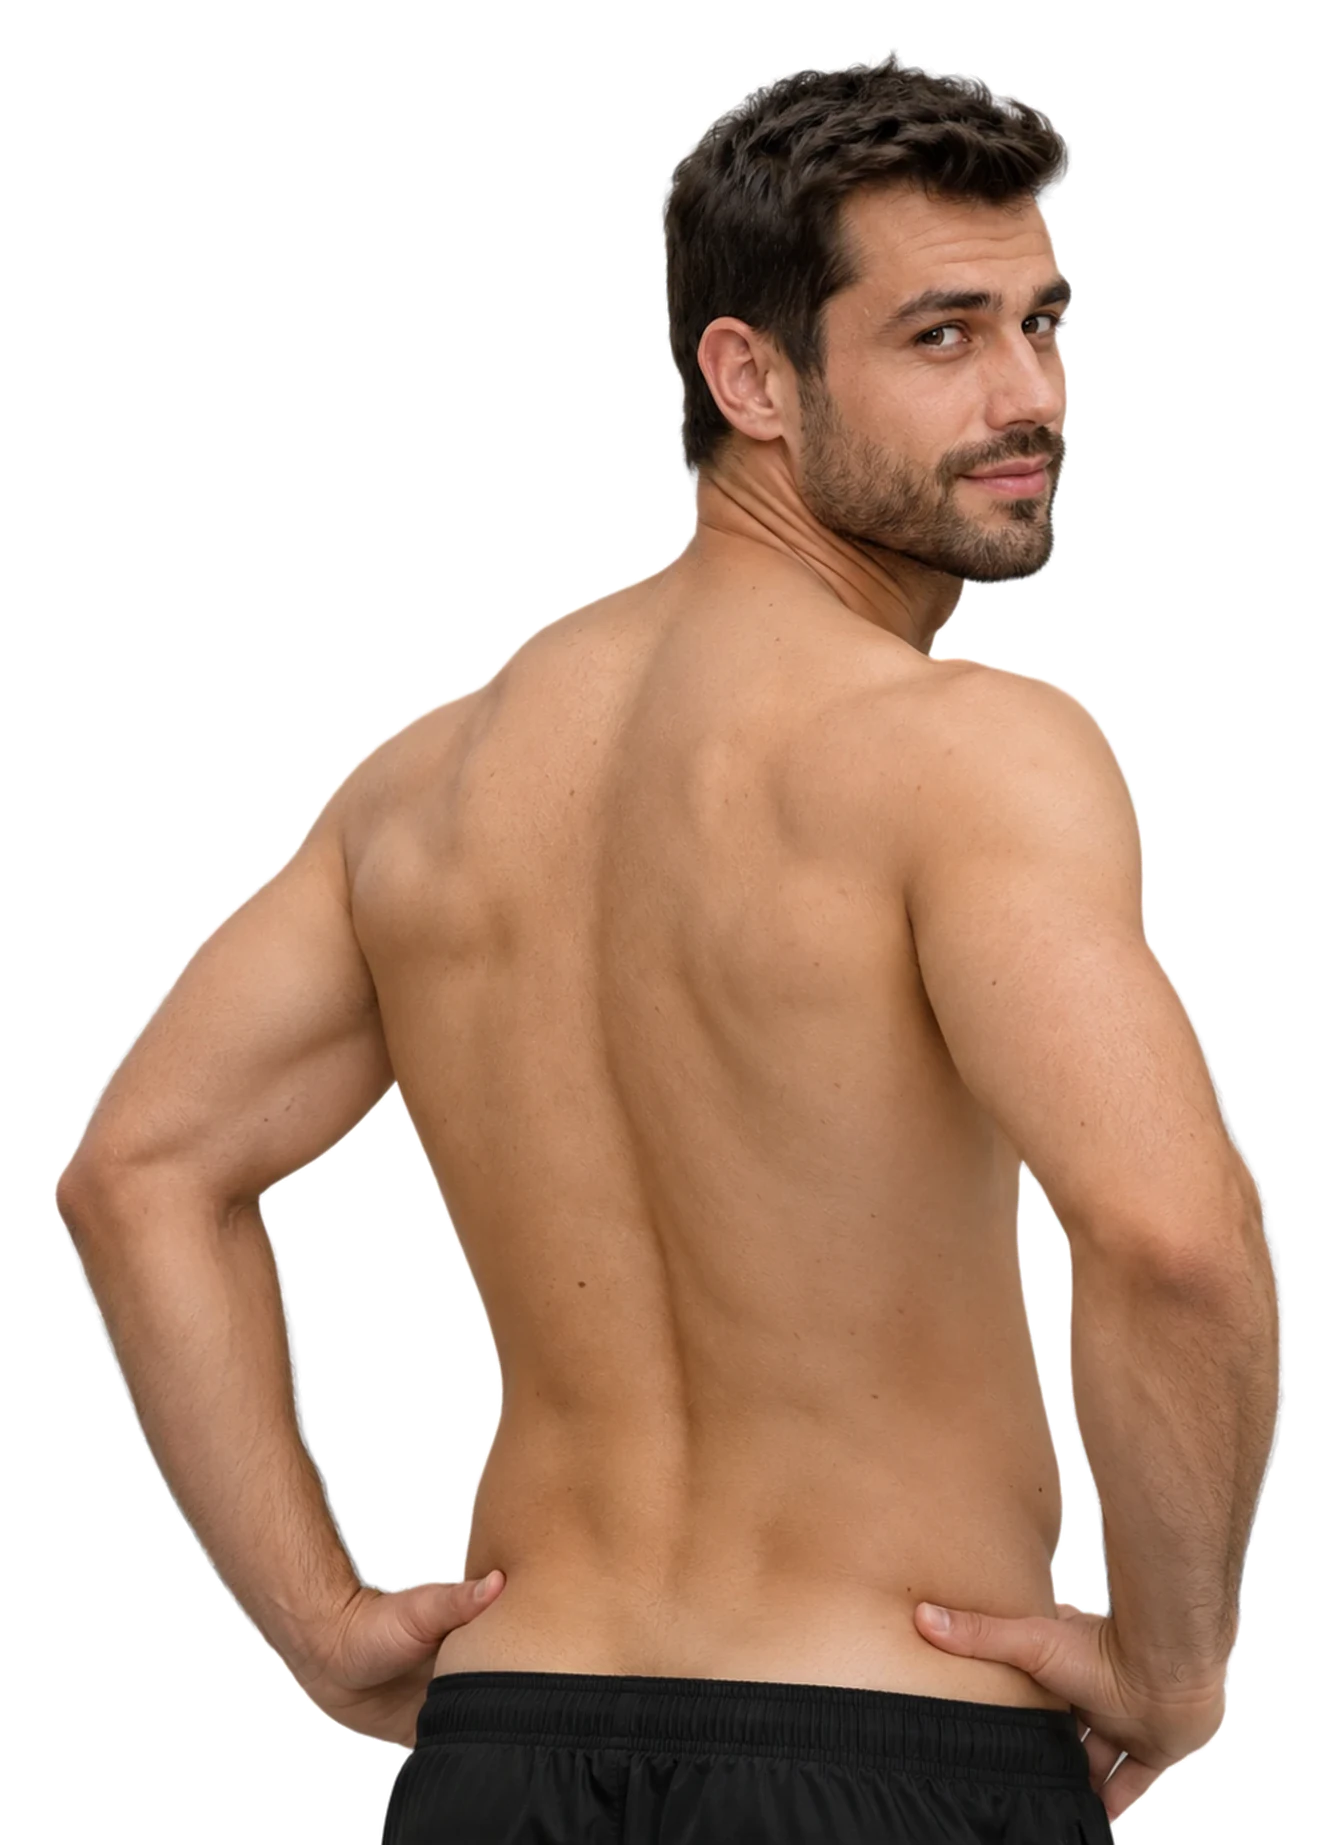
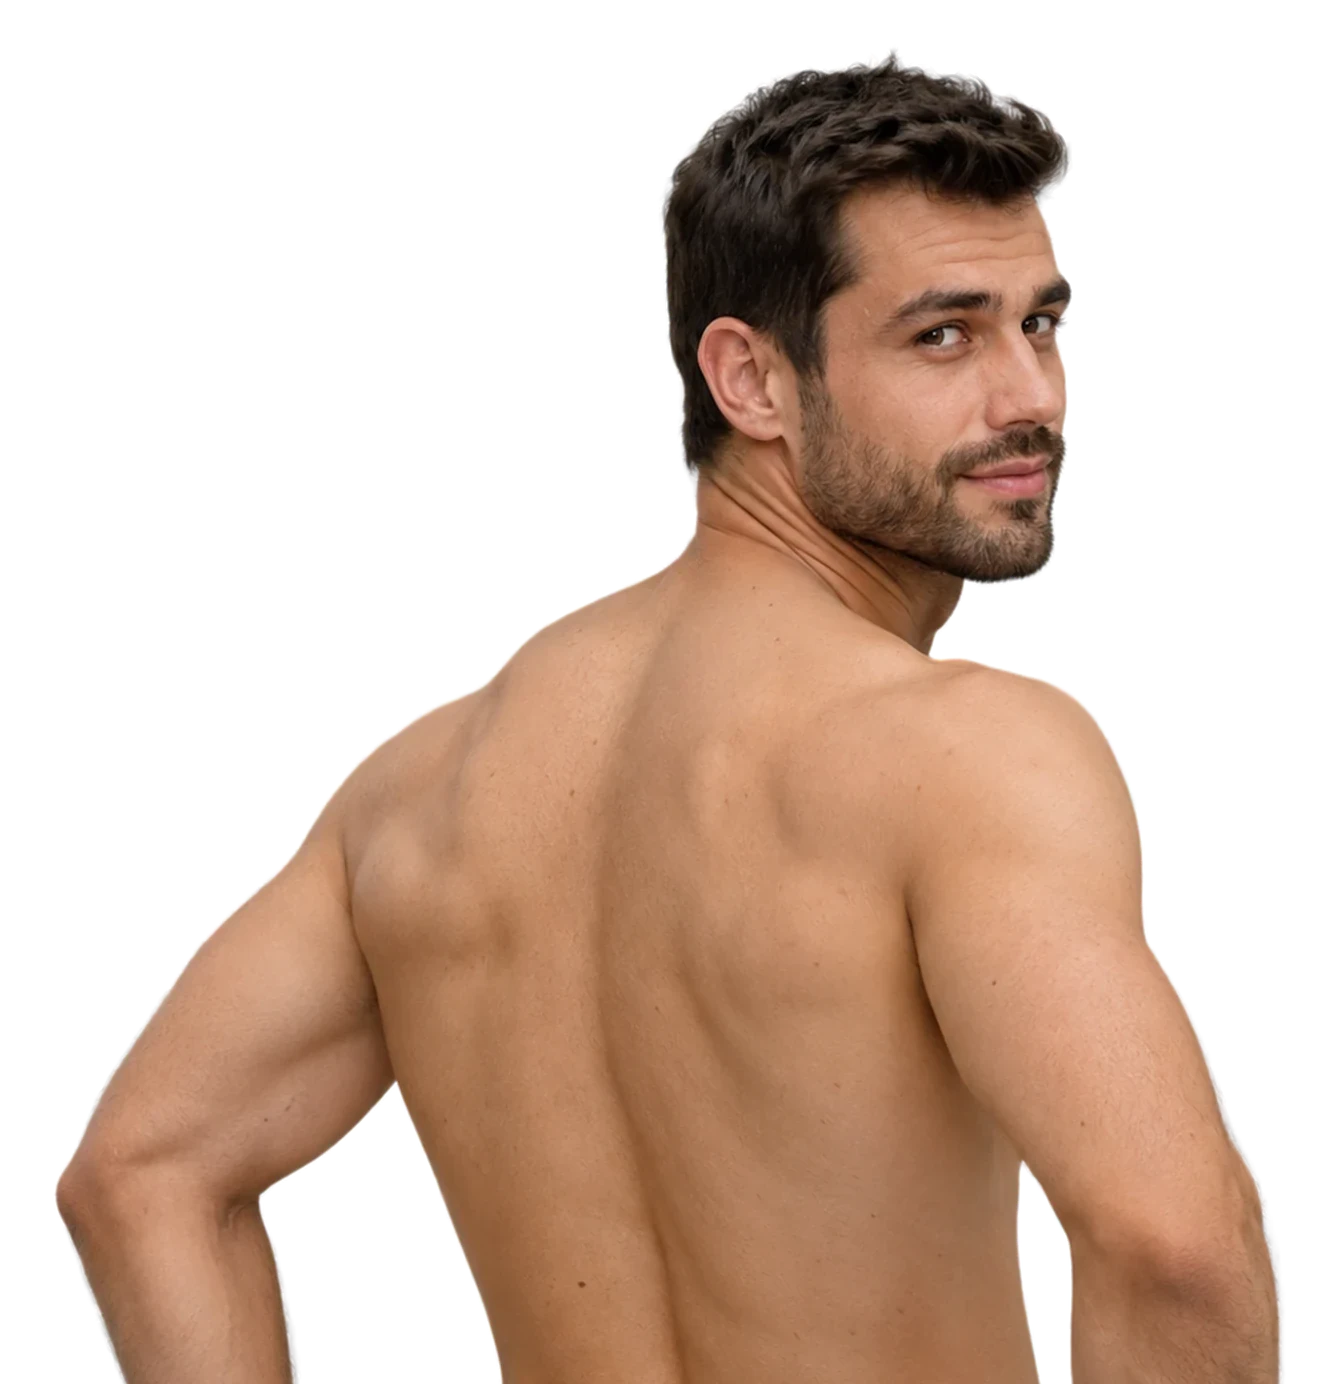
Same model scale on every page; goggles shot back on the promo page
On desktop each model is sized so the head matches the shoulder-length
portraits (head = half the column width, from a per-photo chin
position). Taller shots continue below the masthead edge instead of
shrinking; full-length bikini and legs shots (chin 0.5) stay whole.
The figure scales with its column via container query units.

The promo page uses the laser-goggles shot again. The glow behind the
model no longer causes horizontal scroll at narrow desktop widths.

Claude-Session: https://claude.ai/code/session_01SXTWUmnuzNoXH75QBRwpMy

diff --git a/src/components/direction/masthead-figure.tsx b/src/components/direction/masthead-figure.tsx
@@ -9,22 +9,30 @@ type MastheadFigureProps = {
   height: number;
   /** Центр кольца по горизонтали, % ширины фото — ставьте на голову/корпус модели. */
   focusX?: number;
+  /**
+   * Доля высоты фото до подбородка: по ней на ПК голова у всех моделей одного размера (как у
+   * портрета до плеч). Если фото выше шапки — низ уходит за кромку. 0.5 и больше — фото целиком
+   * (для кадров в полный рост, где важно показать зону).
+   */
+  chin?: number;
 };
 
 /**
  * Модель на прозрачном фоне в тёмной шапке страницы: свечение, кольцо и звёзды из логотипа.
  * Фото должно касаться только нижнего края кадра — этот срез ставится на кромку шапки.
  */
-export function MastheadFigure({ src, alt, width, height, focusX = 53 }: MastheadFigureProps) {
-  const vars = { "--figure-ratio": width / height, "--ring-x": `${focusX}%` } as CSSProperties;
+export function MastheadFigure({ src, alt, width, height, focusX = 53, chin = 0.45 }: MastheadFigureProps) {
+  const vars = { "--figure-ratio": width / height, "--ring-x": `${focusX}%`, "--chin": chin } as CSSProperties;
   return (
     <div className={direction.mastheadFigure} style={vars}>
-      <div className={direction.figureStage}>
-        <span className={direction.figureGlow} aria-hidden="true" />
-        <span className={direction.figureRing} aria-hidden="true" />
-        <CompassStar className={`${direction.figureStar} ${direction.figureStarLarge}`} />
-        <CompassStar className={`${direction.figureStar} ${direction.figureStarSmall}`} />
-        <Image src={src} alt={alt} width={width} height={height} sizes="(max-width: 760px) 86vw, 34rem" preload className={direction.figureImage} />
+      <div className={direction.figureFrame}>
+        <div className={direction.figureStage}>
+          <span className={direction.figureGlow} aria-hidden="true" />
+          <span className={direction.figureRing} aria-hidden="true" />
+          <CompassStar className={`${direction.figureStar} ${direction.figureStarLarge}`} />
+          <CompassStar className={`${direction.figureStar} ${direction.figureStarSmall}`} />
+          <Image src={src} alt={alt} width={width} height={height} sizes="(max-width: 760px) 86vw, 40rem" preload className={direction.figureImage} />
+        </div>
       </div>
     </div>
   );

diff --git a/src/app/direction.module.css b/src/app/direction.module.css
@@ -1,4 +1,6 @@
 .masthead {
+  /* Свечение за моделью шире фото — не даём ему создать горизонтальную прокрутку. */
+  overflow-x: clip;
   background: radial-gradient(ellipse at 80% 0%, #38342c, transparent 60%), var(--night);
   color: var(--white);
 }
@@ -54,6 +56,7 @@
    совпадает с нижней кромкой шапки — плечи остаются целыми, без затуханий. */
 .mastheadFigure {
   position: relative;
+  container-type: inline-size;
   display: grid;
   justify-items: center;
   align-self: end;
@@ -61,9 +64,16 @@
   clip-path: inset(-100vh -100vw 0 -100vw);
 }
 
+/* Рамка видимой части: обрезает только снизу (кольцо и звёзды могут выходить вбок). */
+.figureFrame {
+  width: 100%;
+  clip-path: inset(-100vh -100vw 0 -100vw);
+}
+
 .figureStage {
   position: relative;
   isolation: isolate;
+  margin-inline: auto;
   /* Ширина ограничена и по высоте: вертикальное фото не должно растягивать шапку. */
   width: min(94%, 34rem, calc(36rem * var(--figure-ratio, 1)));
 }
@@ -140,6 +150,18 @@
 @media (min-width: 760px) {
   .mastheadFigure {
     margin-bottom: calc(-1 * clamp(2.1rem, 5vw, 4.5rem));
+  }
+
+  /* Одинаковый масштаб моделей — как у портрета до плеч: голова (верх кадра → подбородок)
+     = половина ширины колонки. Высота фото = 50cqw / доля до подбородка; видимая часть — не выше
+     ширины колонки, остальное уходит за кромку шапки. Ширина — не больше колонки
+     (широкие позы с поднятыми руками из-за этого чуть мельче). */
+  .figureFrame {
+    max-height: 100cqw;
+  }
+
+  .figureStage {
+    width: min(100cqw, calc(50cqw / var(--chin, 0.5) * var(--figure-ratio, 1)));
   }
 }
 

diff --git a/src/content/laser-zones/pages.ts b/src/content/laser-zones/pages.ts
@@ -8,7 +8,8 @@ export const bikiniPage = buildLaserZonePage({
     cutout: true,
     width: 664,
     height: 1330,
-    focusX: 50
+    focusX: 50,
+    chin: 0.5
   },
   title: "Лазерная эпиляция бикини в Чите",
   shortName: "Бикини",
@@ -81,7 +82,8 @@ export const podmyshkiPage = buildLaserZonePage({
     cutout: true,
     width: 1548,
     height: 1730,
-    focusX: 50
+    focusX: 50,
+    chin: 0.33
   },
   title: "Лазерная эпиляция подмышек в Чите",
   shortName: "Подмышки",
@@ -140,7 +142,8 @@ export const nogiPage = buildLaserZonePage({
     cutout: true,
     width: 1821,
     height: 1144,
-    focusX: 64
+    focusX: 64,
+    chin: 0.5
   },
   title: "Лазерная эпиляция ног в Чите",
   shortName: "Ноги",
@@ -208,8 +211,9 @@ export const litsoPage = buildLaserZonePage({
     alt: "Лазерная эпиляция лица: модель с гладкой кожей лица и шеи",
     cutout: true,
     width: 1560,
-    height: 1767,
-    focusX: 50
+    height: 1414,
+    focusX: 50,
+    chin: 0.46
   },
   sections: [
     [
@@ -308,8 +312,9 @@ export const muzhskayaPage = buildLaserZonePage({
     alt: "Мужская лазерная эпиляция: модель-мужчина, вид со спины",
     cutout: true,
     width: 1335,
-    height: 1845,
-    focusX: 52
+    height: 1384,
+    focusX: 52,
+    chin: 0.33
   },
   title: "Мужская лазерная эпиляция в Чите",
   shortName: "Для мужчин",

diff --git a/src/content/directions/types.ts b/src/content/directions/types.ts
@@ -36,9 +36,20 @@ export type DirectionContent = {
   /**
    * Фото в шапке; position — точка кадрирования (CSS object-position), например "center 22%".
    * cutout — PNG/WebP с прозрачным фоном: модель без рамки на тёмной шапке со свечением;
-   * focusX — где по горизонтали центр кольца за моделью, в процентах (по умолчанию 53).
+   * focusX — где по горизонтали центр кольца за моделью, в процентах (по умолчанию 53);
+   * chin — на какой доле высоты фото подбородок (0.45 = 45% сверху): по нему на ПК
+   * выравнивается размер головы, чтобы модели на разных страницах были одного масштаба.
    */
-  image: { src: string; alt: string; position?: string; cutout?: boolean; width?: number; height?: number; focusX?: number };
+  image: {
+    src: string;
+    alt: string;
+    position?: string;
+    cutout?: boolean;
+    width?: number;
+    height?: number;
+    focusX?: number;
+    chin?: number;
+  };
   /** Картинка для превью ссылок и разметки, если в шапке модель без фона (прозрачный WebP для превью не годится). */
   shareImage?: { src: string; alt: string };
   bookingHref: string;

diff --git a/src/app/akcii/page.tsx b/src/app/akcii/page.tsx
@@ -104,11 +104,12 @@ export default async function PromoPage() {
               </div>
             </div>
             <MastheadFigure
-              src="/clinic/model-akcii-smile.webp"
-              alt="Акция на лазерную эпиляцию: улыбающаяся модель"
-              width={1225}
-              height={1795}
+              src="/clinic/model-laser-goggles-2.webp"
+              alt="Акция на лазерную эпиляцию: модель в защитных очках для лазера"
+              width={1126}
+              height={1325}
               focusX={57}
+              chin={0.36}
             />
           </div>
         </section>

diff --git a/src/content/directions/konturnaya-plastika.ts b/src/content/directions/konturnaya-plastika.ts
@@ -28,7 +28,8 @@ export const konturnayaPlastika: DirectionContent = {
     cutout: true,
     width: 1470,
     height: 1808,
-    focusX: 60
+    focusX: 60,
+    chin: 0.45
   },
   shareImage: { src: "/clinic/consultation-room.webp", alt: "Кабинет врача-косметолога клиники «Сияние»" },
   bookingHref: "/booking?booking=doctor&service=cosmetologist-consultation",

diff --git a/src/content/directions/botulinoterapiya.ts b/src/content/directions/botulinoterapiya.ts
@@ -27,7 +27,8 @@ export const botulinoterapiya: DirectionContent = {
     cutout: true,
     width: 1568,
     height: 1652,
-    focusX: 54
+    focusX: 54,
+    chin: 0.52
   },
   shareImage: { src: "/clinic/consultation-room.webp", alt: "Кабинет врача-косметолога клиники «Сияние»" },
   bookingHref: "/booking?booking=doctor&service=botulinum-wrinkles",

diff --git a/src/content/directions/dermatolog-kosmetolog.ts b/src/content/directions/dermatolog-kosmetolog.ts
@@ -24,7 +24,8 @@ export const dermatologKosmetolog: DirectionContent = {
     cutout: true,
     width: 1600,
     height: 1436,
-    focusX: 55
+    focusX: 55,
+    chin: 0.58
   },
   shareImage: { src: "/clinic/consultation-room.webp", alt: "Кабинет врача-дерматолога клиники «Сияние»" },
   bookingHref: `/booking?booking=doctor&service=${chief.slug}`,

diff --git a/src/content/directions/lechenie-gipergidroza.ts b/src/content/directions/lechenie-gipergidroza.ts
@@ -25,7 +25,8 @@ export const lechenieGipergidroza: DirectionContent = {
     cutout: true,
     width: 1553,
     height: 1709,
-    focusX: 54
+    focusX: 54,
+    chin: 0.3
   },
   shareImage: { src: "/clinic/treatment-room.webp", alt: "Процедурный кабинет клиники «Сияние»" },
   bookingHref: "/booking?booking=doctor&service=botulinum-hyperhidrosis",

diff --git a/src/content/directions/uvelichenie-gub.ts b/src/content/directions/uvelichenie-gub.ts
@@ -29,7 +29,8 @@ export const uvelichenieGub: DirectionContent = {
     cutout: true,
     width: 1600,
     height: 1696,
-    focusX: 57
+    focusX: 57,
+    chin: 0.54
   },
   shareImage: { src: "/clinic/consultation-room.webp", alt: "Кабинет врача-косметолога клиники «Сияние»" },
   bookingHref: `/booking?booking=doctor&service=${chief.slug}`,

diff --git a/src/app/lazernaya-epilyatsiya/page.tsx b/src/app/lazernaya-epilyatsiya/page.tsx
@@ -107,6 +107,7 @@ export default async function LaserHairRemovalPage() {
               alt="Лазерная эпиляция в Чите: модель в защитных очках для лазера"
               width={1122}
               height={1394}
+              chin={0.36}
             />
           </div>
         </section>

diff --git a/src/components/direction/direction-landing.tsx b/src/components/direction/direction-landing.tsx
@@ -147,6 +147,7 @@ export function DirectionLanding({
                 width={content.image.width ?? 848}
                 height={content.image.height ?? 736}
                 focusX={content.image.focusX}
+                chin={content.image.chin}
               />
             ) : (
               <div className={direction.mastheadPhoto}>
